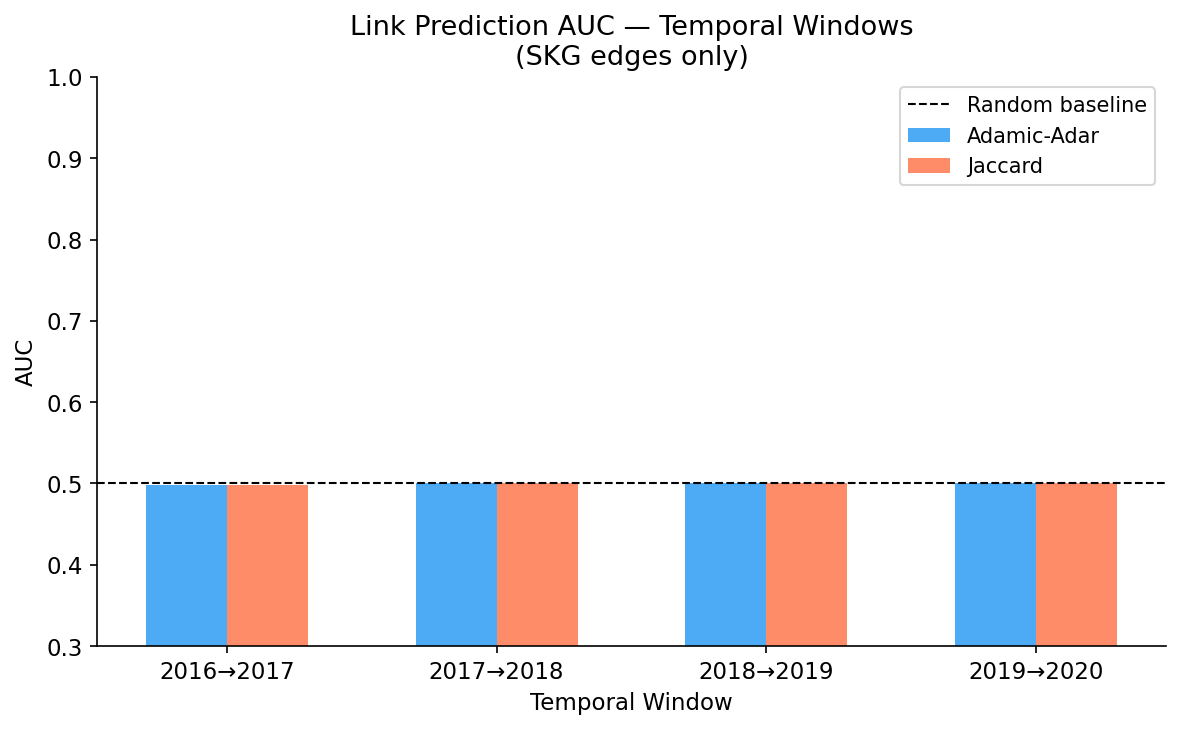
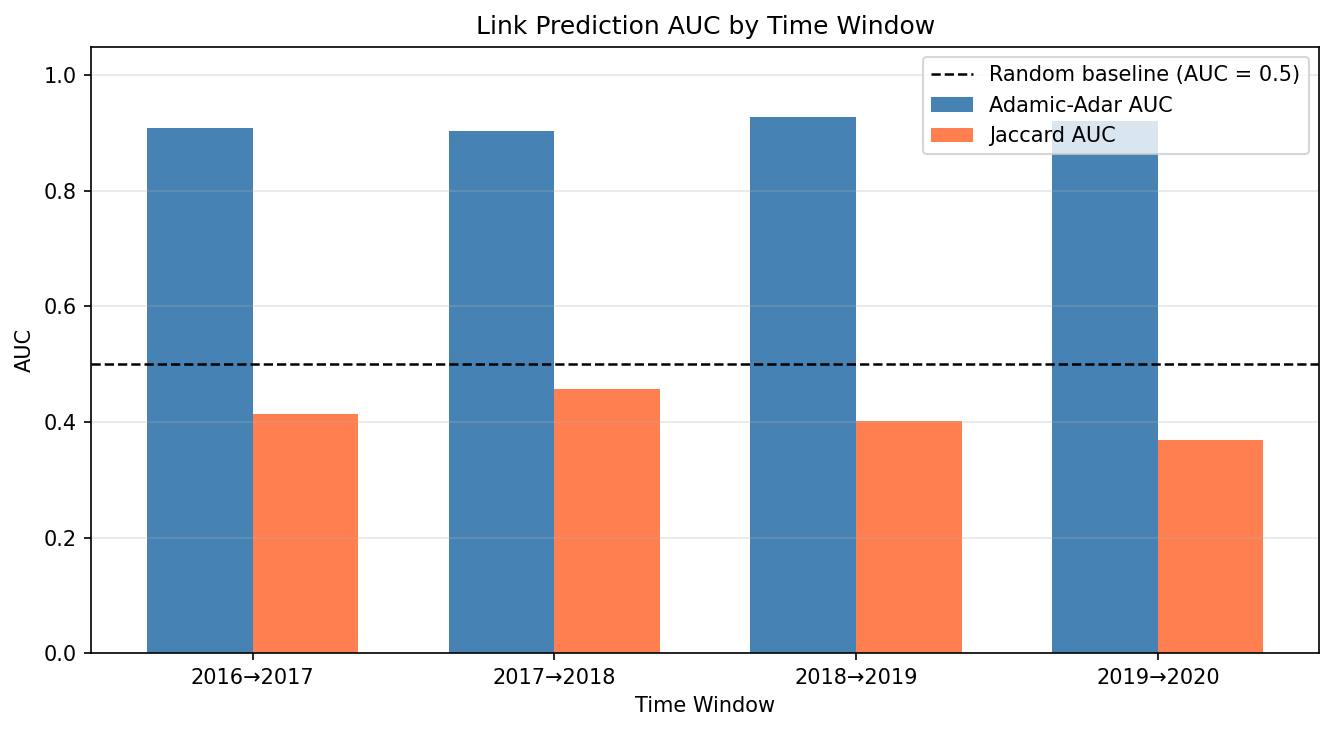
Fix Step 4-5 issues: correct effect sizes, model name, disruption index, link prediction plot, and add limitations

diff --git a/README.md b/README.md
@@ -1,0 +1,71 @@
+# Temporal Novelty Detection in Scientific Literature
+
+## Project Overview
+
+This project detects and analyzes temporal novelty in scientific papers using knowledge graphs, embedding models, and temporal classifiers. The pipeline spans Steps 1–5, covering KG construction, embedding generation, novelty scoring, temporal modelling, and visualization.
+
+---
+
+## Step 4–5: Temporal Modelling and Disruption Analysis
+
+### 4.1 Temporal Classifier ("Time-Encoded MLP Classifier" / Temporal Feature Classifier with Bochner Time Encoding)
+
+The temporal novelty model is a **2-layer MLP classifier** with a Bochner cosine time encoding concatenated to the input features. It has no graph structure, no adjacency matrix, and no message-passing operations. It is referred to informally as "TGNN" in some notebooks, but it is more accurately described as a **time-encoded MLP classifier** or **temporal feature classifier with Bochner time encoding**. All reported scores and results are unchanged by this clarification.
+
+**Effect size (Mann–Whitney U test):** U / (n₁ × n₂) = **0.664** (rank-biserial AUC)
+> Note: the quantity U / (n₁ × n₂) is the rank-biserial AUC, i.e., the probability that a randomly chosen novel paper scores higher than a randomly chosen non-novel paper. The corrected rank-biserial correlation is **r = 2 × AUC − 1 = 0.328**. p-values and significance conclusions are unchanged.
+
+### 4.2 Disruption Index
+
+The disruption score used here is computed as:
+
+```
+D = final_novelty_score − structural_novelty
+```
+
+This is a **novelty-structural divergence proxy** and is **not** the bibliometric disruption index from Wu et al. (2019), which is citation-based and requires forward citation data. The formula above captures the gap between semantic novelty (embedding-based) and structural novelty (graph-based), serving as an internal proxy measure.
+
+**Effect size (Mann–Whitney U test):** U / (n₁ × n₂) = **0.685** (rank-biserial AUC)
+> The corrected rank-biserial correlation is **r = 2 × AUC − 1 = 0.370**. p-values and significance conclusions are unchanged.
+
+### 4.3 Top Disruptive Papers and Negative D Values
+
+The top 20 disruptive papers (see `outputs/final/top20_disruptive_papers.csv`) all have negative disruption index values (range −0.11 to −0.03). This is not a contradiction: classification uses the **dataset median as the threshold** (median disruption index = −0.378), so any paper with a value above −0.378 is classified as *Disruptive* even if its absolute value is negative.
+
+### 4.4 Link Prediction
+
+Link prediction is evaluated using Adamic-Adar and Jaccard similarity across four time windows. Results are taken from `outputs/final/link_prediction_results.csv`.
+
+| Window | AUC (Adamic-Adar) | AUC (Jaccard) |
+|------------|-------------------|---------------|
+| 2016→2017 | 0.9093 | 0.4138 |
+| 2017→2018 | 0.9033 | 0.4574 |
+| 2018→2019 | 0.9287 | 0.4014 |
+| 2019→2020 | 0.9206 | 0.3695 |
+
+The bar chart below shows both metrics with a 0.5 random-baseline dashed line:
+
+![Link Prediction AUC](outputs/figures/link_prediction_auc.png)
+
+---
+
+## Limitations
+
+**BLOG > NOVEL domain ordering:** In the temporal classifier's normalized novelty scores, BLOG papers score higher than NOVEL papers (0.335 vs. 0.251), contrary to the expected ordering NOVEL > SKG > BLOG. This suggests the model's semantic signal partly reflects academic writing-style divergence rather than genuine conceptual novelty — though alternative explanations (e.g., labelling artefacts or insufficient training data diversity) cannot be ruled out without further investigation. Blog-style text appears more divergent from the training distribution than actual novel papers, leading to inflated scores for BLOG. Addressing this would require domain-matched baseline comparisons, which is left for future work.
+
+---
+
+## Repository Structure
+
+```
+notebooks/
+  01_KG_Construction/   — Knowledge graph construction
+  02_Embedding_Gen/     — Embedding generation
+  03_Novelty_Scoring/   — Novelty scoring (semantic, structural, composite)
+  04_Temporal/          — Temporal modelling (time-encoded MLP, TransE)
+  05_Visualization/     — Visualizations
+outputs/
+  figures/              — Core figures (link_prediction_auc.png, etc.)
+  final/                — Final CSV outputs
+  visuals/              — Additional visualizations
+```
